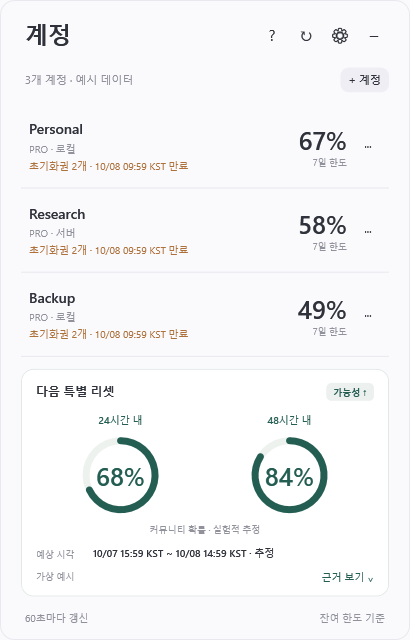
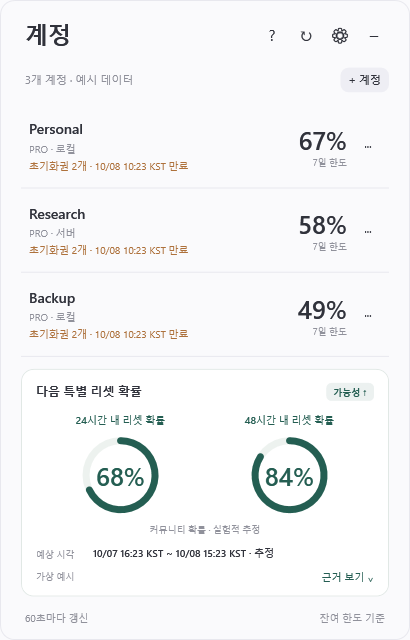
Clarify special reset probability labels

diff --git a/src/CodexAccountMonitor/ResetForecastCard.cs b/src/CodexAccountMonitor/ResetForecastCard.cs
@@ -22,7 +22,7 @@ public partial class MainWindow
         var title = new Grid();
         title.ColumnDefinitions.Add(new ColumnDefinition());
         title.ColumnDefinitions.Add(new ColumnDefinition { Width = GridLength.Auto });
-        title.Children.Add(Text("다음 특별 리셋", 12, Ink, FontWeights.SemiBold));
+        title.Children.Add(Text("다음 특별 리셋 확률", 12, Ink, FontWeights.SemiBold));
         var (status, color) = ForecastBadge(forecast);
         var badge = new Border { CornerRadius = new CornerRadius(5), Padding = new Thickness(7, 3, 7, 3),
             Child = Text(status, 9, color, FontWeights.SemiBold), ToolTip = forecast.Explanation };
@@ -31,8 +31,8 @@ public partial class MainWindow
 
         var gauges = new Grid { Margin = new Thickness(0, 12, 0, 5) };
         gauges.ColumnDefinitions.Add(new ColumnDefinition()); gauges.ColumnDefinitions.Add(new ColumnDefinition());
-        var day = ProbabilityGauge("24시간 내", RenderedProbabilityAvailable ? community!.Within24Hours : null);
-        var twoDays = ProbabilityGauge("48시간 내", RenderedProbabilityAvailable ? community!.Within48Hours : null);
+        var day = ProbabilityGauge("24시간 내 리셋 확률", RenderedProbabilityAvailable ? community!.Within24Hours : null);
+        var twoDays = ProbabilityGauge("48시간 내 리셋 확률", RenderedProbabilityAvailable ? community!.Within48Hours : null);
         gauges.Children.Add(day); Grid.SetColumn(twoDays, 1); gauges.Children.Add(twoDays); header.Children.Add(gauges);
         var attribution = Text(RenderedProbabilityAvailable ? "커뮤니티 확률 · 실험적 추정" : "확률 데이터 확인 중", 9, Soft);
         attribution.HorizontalAlignment = HorizontalAlignment.Center;

diff --git a/src/CodexAccountMonitor.Core/ResetFeed.cs b/src/CodexAccountMonitor.Core/ResetFeed.cs
@@ -12,7 +12,7 @@ public sealed class ResetFeed : IDisposable
     {
         http = handler is null ? new HttpClient() : new HttpClient(handler);
         http.Timeout = TimeSpan.FromSeconds(20);
-        http.DefaultRequestHeaders.UserAgent.ParseAdd("CodexAccountMonitor/1.4.2 (+https://github.com/twkim-0501/codex-account-monitor)");
+        http.DefaultRequestHeaders.UserAgent.ParseAdd("CodexAccountMonitor/1.4.3 (+https://github.com/twkim-0501/codex-account-monitor)");
     }
 
     public async Task<ResetOutlook> ReadAsync(DateTimeOffset now, CancellationToken token)

diff --git a/docs/releases/v1.4.3.md b/docs/releases/v1.4.3.md
@@ -1,0 +1,5 @@
+리셋 예측 카드의 제목을 **다음 특별 리셋 확률**, 게이지 설명을 **24시간 내 리셋 확률 / 48시간 내 리셋 확률**로 바꿨습니다. 계정의 잔여 사용량과 구분하기 위한 작은 표시 수정입니다.
+
+**[Windows 실행 파일 다운로드](https://github.com/twkim-0501/codex-account-monitor/releases/download/v1.4.3/CodexAccountMonitor.exe)** · [설치 안내](https://github.com/twkim-0501/codex-account-monitor#readme)
+
+기존 앱을 위젯 우클릭 → **종료**로 끝낸 뒤 실행 파일을 교체하세요. 계정 연결과 설정은 유지됩니다. Windows 10/11 x64용이며 .NET은 포함되어 있습니다.

diff --git a/CHANGELOG.md b/CHANGELOG.md
@@ -1,5 +1,9 @@
 # Changelog
 
+## 1.4.3
+
+- Clarified the special-reset card title and both horizon labels with “리셋 확률” so its percentages are distinguishable from remaining account quota.
+
 ## 1.4.2
 
 - Reorganized README around a direct executable download and first-run installation, keeping advanced setup and credits in dedicated documents. Added version-specific release notes.
